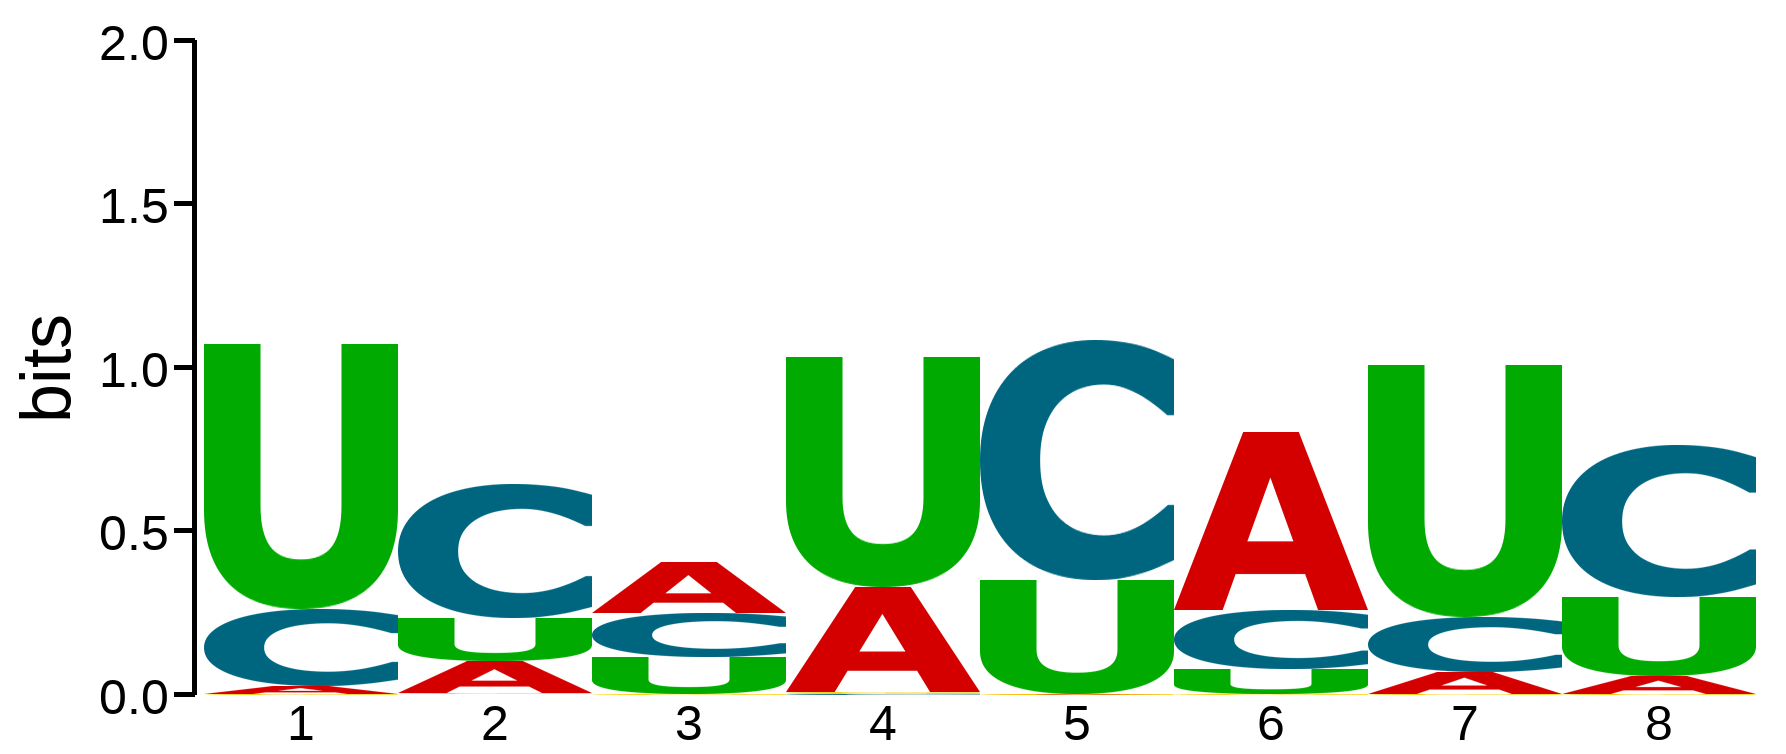
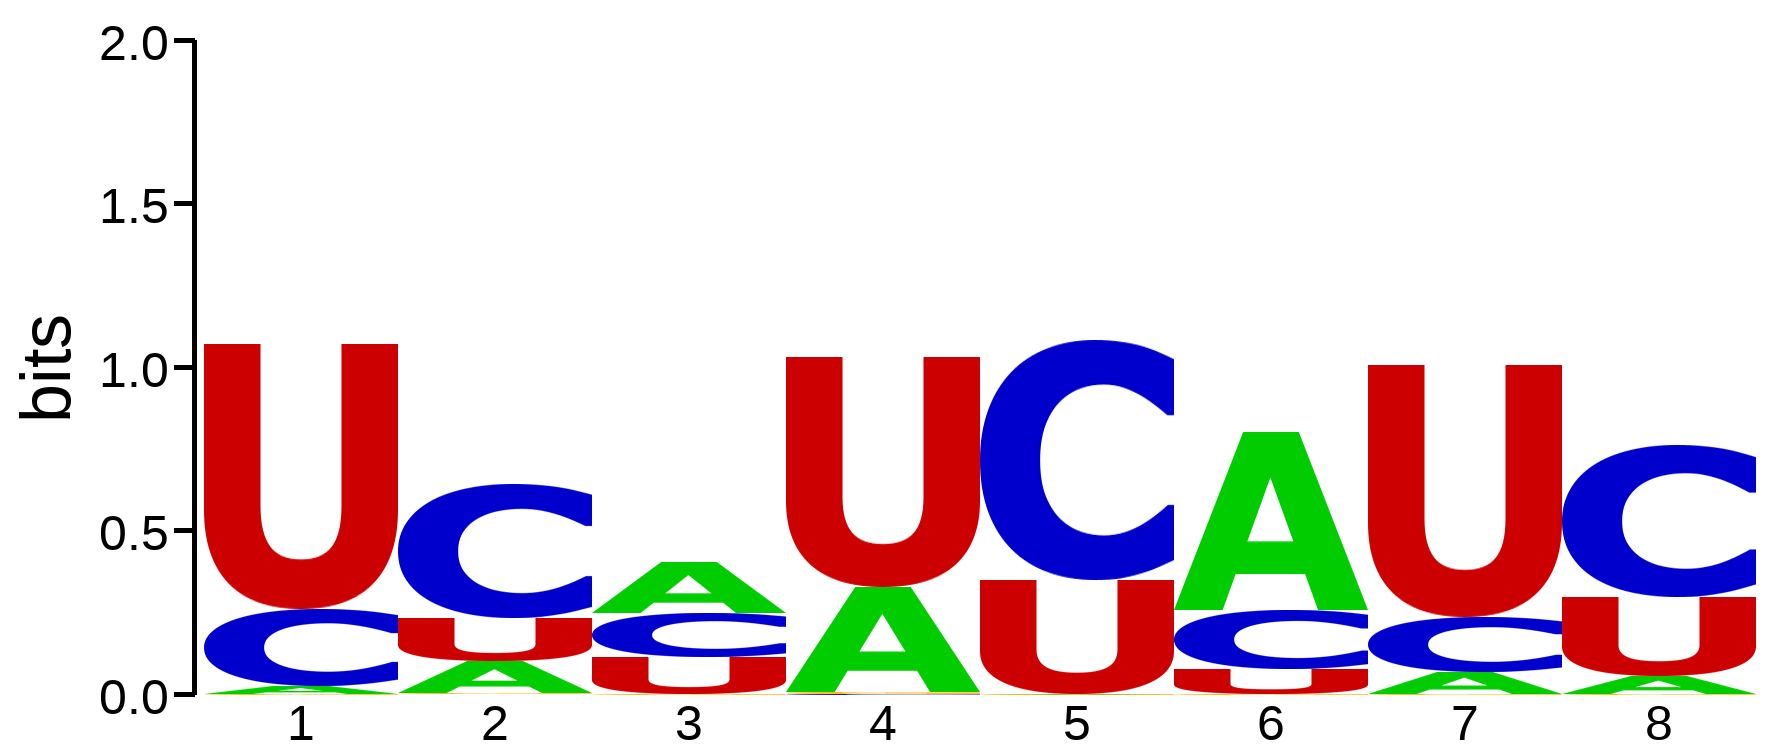
update  graphprot color scheme

Changed region(s): [[0.0924, 0.4271, 0.9854, 0.9456]]

diff --git a/tutorials/rbp/measure_rbp_graphprot.py b/tutorials/rbp/measure_rbp_graphprot.py
@@ -3,7 +3,7 @@ import numpy as np
 from subprocess import call
 from sklearn.metrics import roc_curve, auc, precision_recall_curve, average_precision_score
 from time import time
-from pysster.Motif import Motif
+from pysster import Motif
 
 
 def get_performance():
@@ -33,7 +33,7 @@ def plot_nicer_motifs():
     with open("GraphProt.structure_motif", "rt") as handle:
         for line in handle:
             seqs.append(line.strip())
-    colors = {'H':(212,0,0), 'I':(255,204,0), 'M':(68,170,0), 'S':(204,0,255)}
+    colors = {'H': '#CC0000', 'I': '#FFB300', 'M': '#00CC00', 'S': '#CC00FF'}
     Motif("HIMSE", seqs).plot(colors).save("motif_structure.png")
 
 
